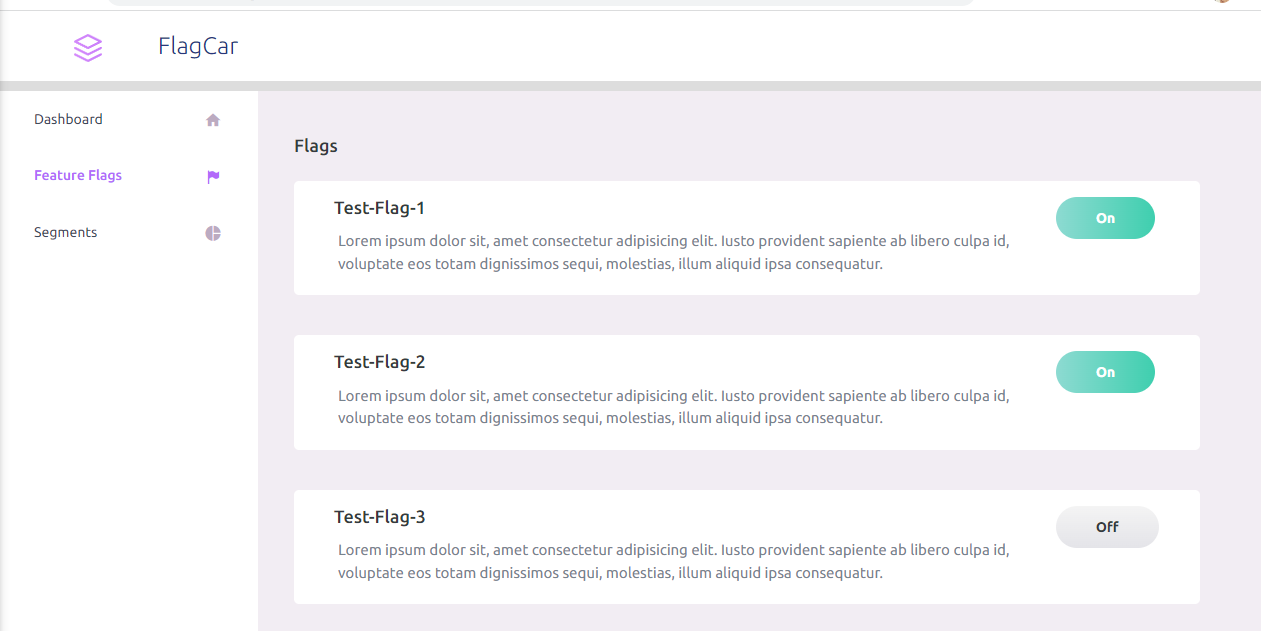
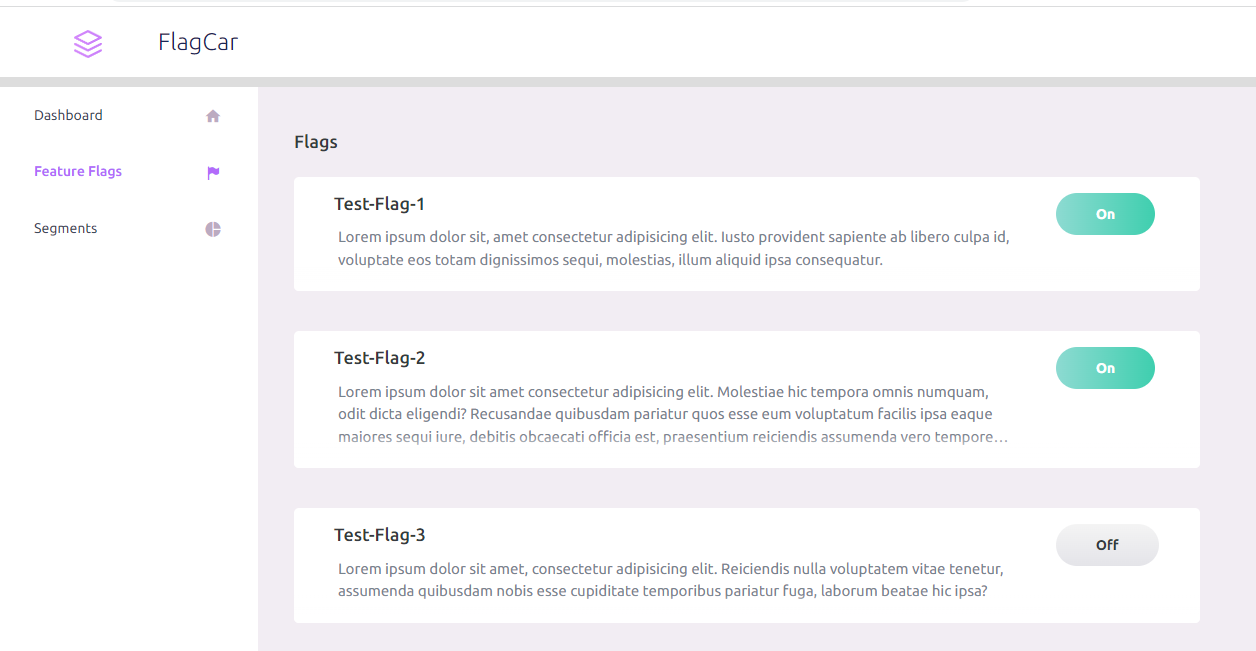
added text fade exceeding 3 lines

diff --git a/src/components/pages/flags/FlagPage.tsx b/src/components/pages/flags/FlagPage.tsx
@@ -11,12 +11,12 @@ const FlagPage: React.FC<any> = () => {
       isEnabled: true,
     }, {
       name: 'test-flag-2',
-      description: 'Lorem ipsum dolor sit, amet consectetur adipisicing elit. Iusto provident sapiente ab libero culpa id, voluptate eos totam dignissimos sequi, molestias, illum aliquid ipsa consequatur.',
+      description: 'Lorem ipsum dolor sit amet consectetur adipisicing elit. Molestiae hic tempora omnis numquam, odit dicta eligendi? Recusandae quibusdam pariatur quos esse eum voluptatum facilis ipsa eaque maiores sequi iure, debitis obcaecati officia est, praesentium reiciendis assumenda vero tempore accusamus inventore. Eligendi quidem perspiciatis numquam dolores sed consequatur nemo ducimus quo architecto iure? Odit porro, quae exercitationem suscipit, corrupti quo sunt sint quisquam delectus optio pariatur? Autem libero, vero facilis maiores, nesciunt amet voluptas sunt, quam architecto veritatis ipsa magnam inventore aut officia saepe. Minus, officiis et. Distinctio reiciendis perferendis numquam maiores ea aut vitae, voluptates similique, dolorum recusandae vel at?',
       alias: 'test-flag-alias',
       isEnabled: true,
     }, {
       name: 'test-flag-3',
-      description: 'Lorem ipsum dolor sit, amet consectetur adipisicing elit. Iusto provident sapiente ab libero culpa id, voluptate eos totam dignissimos sequi, molestias, illum aliquid ipsa consequatur.',
+      description: 'Lorem ipsum dolor sit amet, consectetur adipisicing elit. Reiciendis nulla voluptatem vitae tenetur, assumenda quibusdam nobis esse cupiditate temporibus pariatur fuga, laborum beatae hic ipsa?',
       alias: 'test-flag-alias',
       isEnabled: false,
     }

diff --git a/src/components/pages/flags/FlagCard.tsx b/src/components/pages/flags/FlagCard.tsx
@@ -1,15 +1,19 @@
 import React from 'react'
 import { Flag } from '../../../operations/queries/flag'
+import styled from 'styled-components';
 
 interface IProps {
   flag: Flag
 }
+
+// http://jsfiddle.net/b9vtW/4/
 
 const FlagCard: React.FC<IProps> = ({flag}) => {
   const onButton = <div className="btn btn-gradient-success btn-rounded">On</div>
   const offButton = <div className="btn btn-gradient-light btn-rounded">Off</div>
   return (
     <>
+    <Wrapper>
       <div className="card">
         <div className="card-body py-3">
           <div className="row">
@@ -23,8 +27,34 @@ const FlagCard: React.FC<IProps> = ({flag}) => {
           </div>
         </div>
       </div>
+      </Wrapper>
     </>
   )
 }
+
+const Wrapper = styled.div`
+  .card {
+    overflow: hidden;
+  }
+
+  p {
+    content: '';
+    overflow: hidden;    
+    display: -webkit-box;
+    -webkit-line-clamp: 3;
+    -webkit-box-orient: vertical; 
+  }
+
+  p:after {
+    content: '';
+    bottom: 0;
+    right: 0;
+    width: 100%;
+    height: 25%;
+    background: linear-gradient(to bottom, rgba(255, 255, 255, 0), rgba(255, 255, 255, 1) 70%);
+    /* /* background: linear-gradient(transparent 50px, white); */
+    position: absolute;
+  }
+`
 
 export default FlagCard
